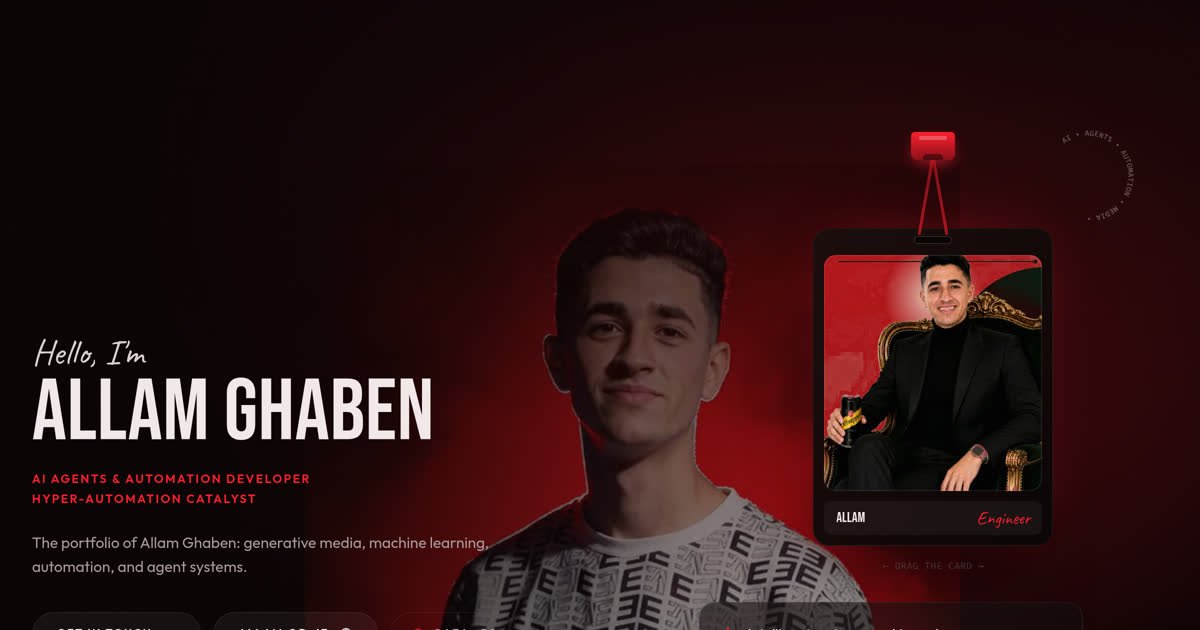
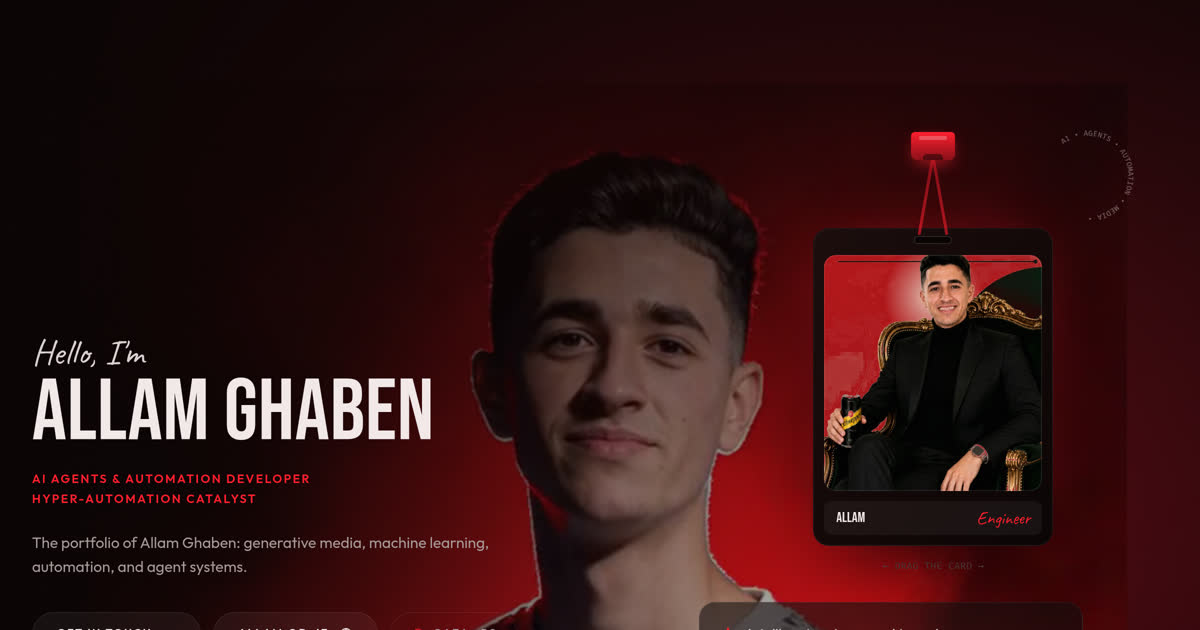
Scale the hero figure back up toward the reference framing
The previous pass cut him to roughly 60% of a full-bleed cover, which was too
far — the reference hero keeps the subject large and prominent behind the
headline. He now sits at about 80%: clearly pulled back from pressing into the
viewer, but still the dominant element in the hero.

Matching the CSS field to the clip also fixed a seam. The gradient standing in
for the clip's backdrop was darker than the footage where the mask handed
over, so the difference in brightness traced a rectangle around the video. Its
stops now follow the clip's own falloff, and the mask feathers over a longer
distance, so the handover is invisible.

OG image regenerated for the new framing.

Verified at 1280/768/390: no horizontal overflow, no page errors, no failed
requests.

Claude-Session: https://claude.ai/code/session_011Hm43Fk7vKVAqGhMPXy5dZ

Changed region(s): [[0.3392, 0.3016, 1.0, 1.0], [0.185, 0.8746, 0.3083, 1.0], [0.8942, 0.2111, 0.925, 0.2413]]

diff --git a/components/HeroBackdrop.tsx b/components/HeroBackdrop.tsx
@@ -44,14 +44,19 @@ export default function HeroBackdrop() {
         gradient. Filling the container with the video instead would scale it
         ~1.5x and push him right up against the viewer; here he can sit at his
         own size inside a much larger field.
+
+        The stops are matched to the clip's own falloff. If this gradient is
+        darker than the footage where the mask hands over, the difference in
+        brightness reads as a rectangular seam around the video.
       */}
-      <div className="absolute inset-0 bg-[radial-gradient(ellipse_78%_46%_at_62%_20%,#7d0f18_0%,#3a070c_46%,#14050700_78%)]" />
+      <div className="absolute inset-0 bg-[radial-gradient(ellipse_100%_78%_at_57%_24%,#8c1119_0%,#5d0c14_30%,#2c060b_58%,#0a040400_82%)]" />
 
       {/* Sized box rather than full-bleed, so he reads as standing further back
-          — roughly 60% of the scale a full-bleed cover would force. Offset from
-          the top so his head clears the floating nav, and tall enough that his
-          lower body still runs behind the What I Do cards. */}
-      <div className="absolute inset-x-0 top-[12%] bottom-0">
+          — about 80% of the scale a full-bleed cover would force, which keeps
+          him prominent the way the reference hero is without pressing him into
+          the viewer. Offset from the top so his head clears the floating nav,
+          and full height so his lower body runs behind the What I Do cards. */}
+      <div className="absolute inset-x-0 top-[5%] h-full sm:top-[6%]">
         <video
           ref={videoRef}
           poster="/assets/hero-poster.jpg"
@@ -62,7 +67,7 @@ export default function HeroBackdrop() {
           preload="metadata"
           /* Feathered on every edge so the clip's rectangle dissolves into the
              gradient behind it instead of showing a hard border. */
-          className="h-[60%] w-full object-contain object-[56%_top] opacity-70 [mask-image:radial-gradient(ellipse_64%_64%_at_56%_44%,#000_50%,transparent_100%)] [mask-mode:alpha] sm:h-[66%] lg:h-[72%] lg:opacity-80"
+          className="h-full w-full object-contain object-[56%_top] opacity-80 [mask-image:radial-gradient(ellipse_82%_80%_at_56%_42%,#000_40%,transparent_100%)] [mask-mode:alpha] lg:opacity-95"
         >
           <source src="/assets/hero-loop.webm" type="video/webm" />
           <source src="/assets/hero-loop.mp4" type="video/mp4" />
